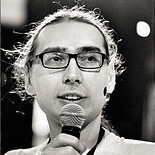
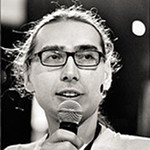
optimized images

diff --git a/index.html b/index.html
@@ -35,7 +35,7 @@
                 <br>
                 Why don't we, the citizens,<br>
                 decide how to deal <br> with climate change<br>with this simple 3 step process?</h2>
-                <img src="img/m/group_1.png" class="home-dance">
+                <img src="img/m/group_1.gif" class="home-dance">
         </div>
 
         <!--<a href="">
@@ -139,7 +139,7 @@
                         </div>
                     </div>
                     <div class="profile">
-                        <img src="img/esp.gif" class="img-responsive">
+                        <img src="img/esp.jpg" class="img-responsive">
 
                         <div class="profile-box">
 

diff --git a/style.css b/style.css
@@ -177,6 +177,8 @@ a:hover{
 
 .img-responsive { 
     width:100%;
+    max-width: 150px;
+    max-height: 150px;
 }
 
 
@@ -458,9 +460,13 @@ footer .copyright{
     left: 77.5%;
 }
 
+#home > div {
+    width: 100%;
+}
+
 img.home-dance{
     display: block;
-    width: 66.6%;
+    width: 318px;
     margin: 2em auto;
 }
 
